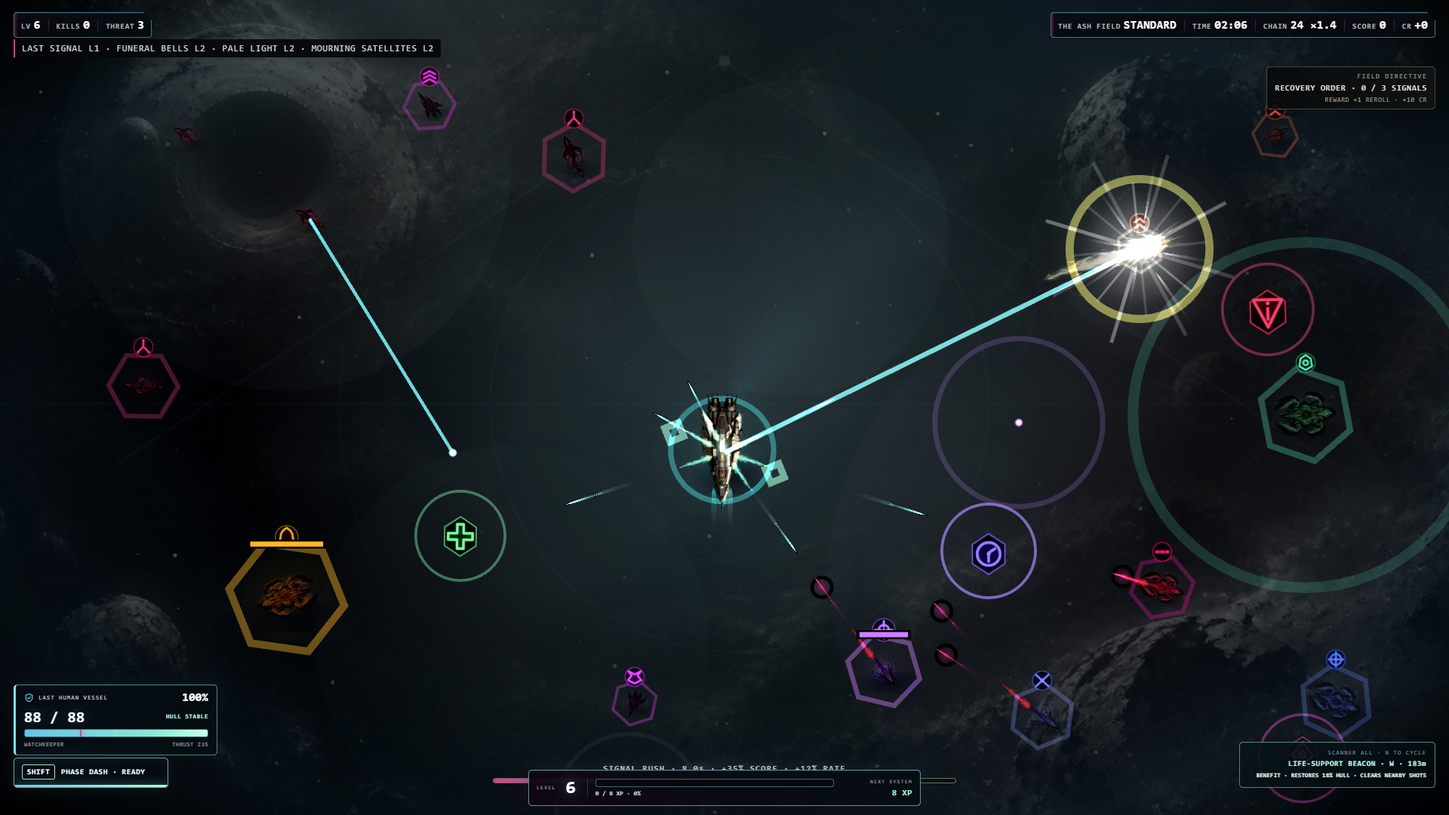
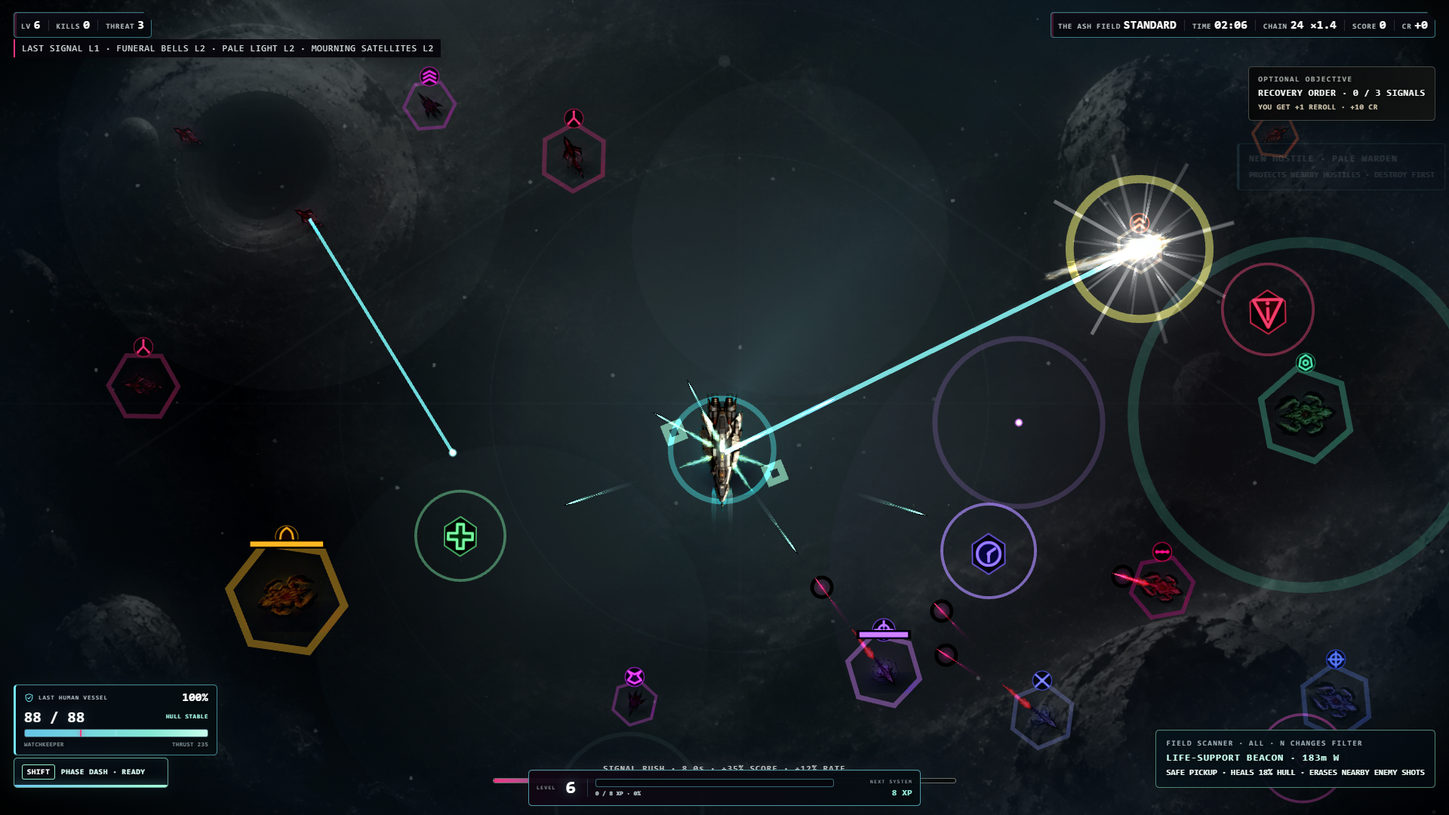
feat: teach hostile counterplay on first contact

Changed region(s): [[0.7188, 0.1833, 0.8438, 0.4278], [0.8125, 0.8861, 1.0, 0.9778], [0.8438, 0.0611, 1.0, 0.1528]]

diff --git a/game.js b/game.js
@@ -94,7 +94,7 @@ function show(id){$(id).classList.add('show')}
 function hide(id){$(id).classList.remove('show')}
 function hideAll(except=''){for(const id of screens)if(id!==except)hide(id)}
 function message(text,ms=900){centerMessage.textContent=text;clearTimeout(message.t);message.t=setTimeout(()=>centerMessage.textContent='',ms)}
-function toast(title,text=''){const d=document.createElement('div'),heading=document.createElement('b');d.className='toast';heading.textContent=title;d.appendChild(heading);if(text){const detail=document.createElement('span');detail.textContent=text;d.appendChild(detail)}d.setAttribute('aria-label',[title,text].filter(Boolean).join('. '));toastStack.appendChild(d);setTimeout(()=>d.remove(),3900)}
+function toast(title,text='',tone=''){const d=document.createElement('div'),heading=document.createElement('b');d.className=`toast${tone?` ${tone}`:''}`;heading.textContent=title;d.appendChild(heading);if(text){const detail=document.createElement('span');detail.textContent=text;d.appendChild(detail)}d.setAttribute('aria-label',[title,text].filter(Boolean).join('. '));toastStack.appendChild(d);const excess=toastStack.children.length-3;for(let i=0;i<excess;i++)toastStack.children[0]?.remove();setTimeout(()=>d.remove(),3900);return d}
 function rewardCue(title,detail='',tier=1,ms=1450){rewardRibbonTitle.textContent=title;rewardRibbonDetail.textContent=detail;rewardRibbon.dataset.tier=String(tier);rewardRibbon.classList.remove('show');void rewardRibbon.offsetWidth;rewardRibbon.classList.add('show');clearTimeout(rewardCue.t);rewardCue.t=setTimeout(()=>rewardRibbon.classList.remove('show'),ms)}
 function weighted(items,count){const pool=[...items],out=[];while(pool.length&&out.length<count){const total=pool.reduce((a,x)=>a+x.weight,0);let r=Math.random()*total,i=0;for(;i<pool.length;i++){r-=pool[i].weight;if(r<=0)break}out.push(pool.splice(Math.min(i,pool.length-1),1)[0])}return out}
 function edgePos(m=34){const e=(Math.random()*4)|0,p=Math.random();return e===0?{x:-m,y:p*H}:e===1?{x:W+m,y:p*H}:e===2?{x:p*W,y:-m}:{x:p*W,y:H+m}}
@@ -105,8 +105,8 @@ const SAVE_BACKUP_KEY='orbit04-save-v2-backup';
 const OLD_SAVE_KEY='orbit04-save-v1';
 const DEFAULT_SETTINGS={playerHp:'BOTH',enemyHp:'ELITES',xpReadout:'BOTH',damageNumbers:'CRITS',telegraphs:'ON',hints:'ON',mouse:'HOLD',targetPriority:'NEAREST',autoPause:'ON',shake:'ON',flash:'ON',motion:'FULL',uiScale:'XL',particles:'HIGH',graphics:'HIGH',effectClarity:'HIGH',glow:'ON',background:'FULL',contrast:'HIGH',audio:'ON',audioMix:'CINEMA',sfxVolume:'100%',musicVolume:'70%'};
 const DEFAULT_STATS={totalDamage:0,damageTaken:0,bosses:0,highestLevel:1,bestChain:0,bestGrazeChain:0,totalGrazes:0,signalRushes:0,clears:0,hardlineClears:0,blackoutClears:0,playTime:0,caches:0,reliquaries:0,conversions:0,flawlessBosses:0,secretEvents:0,nemeses:0,doctrinesChosen:0,operationsClaimed:0,ascensions:0,endlessTime:0,overcharges:0,fieldSignals:0,timeFractures:0,archiveFragments:0,hazardsTriggered:0,distanceTraveled:0,directivesCompleted:0};
-const DEFAULT_SAVE={credits:0,bestScore:0,bestTime:0,bestAscension:0,totalKills:0,runs:0,briefingSeen:false,unlocked:['striker'],selected:'striker',difficulty:'STANDARD',contract:'NONE',sector:'AURORA',achievements:[],claimedOperations:[],research:{},shipMastery:{},sectorClears:{},discoveredWeapons:['pulse'],discoveredEnemies:['scout'],discoveredEvolutions:[],discoveredSynergies:[],discoveredArtifacts:[],discoveredArchives:[],stats:{...DEFAULT_STATS},settings:{...DEFAULT_SETTINGS}};
-function deepProfile(raw={}){return {...DEFAULT_SAVE,...raw,unlocked:Array.isArray(raw.unlocked)?raw.unlocked:['striker'],achievements:Array.isArray(raw.achievements)?raw.achievements:[],claimedOperations:Array.isArray(raw.claimedOperations)?raw.claimedOperations:[],research:{...(raw.research||{})},shipMastery:{...(raw.shipMastery||{})},sectorClears:{...(raw.sectorClears||{})},discoveredWeapons:Array.isArray(raw.discoveredWeapons)?raw.discoveredWeapons:['pulse'],discoveredEnemies:Array.isArray(raw.discoveredEnemies)?raw.discoveredEnemies:['scout'],discoveredEvolutions:Array.isArray(raw.discoveredEvolutions)?raw.discoveredEvolutions:[],discoveredSynergies:Array.isArray(raw.discoveredSynergies)?raw.discoveredSynergies:[],discoveredArtifacts:Array.isArray(raw.discoveredArtifacts)?raw.discoveredArtifacts:[],discoveredArchives:Array.isArray(raw.discoveredArchives)?normalizeArchiveIds(raw.discoveredArchives):[],stats:{...DEFAULT_STATS,...(raw.stats||{})},settings:{...DEFAULT_SETTINGS,...(raw.settings||{})}}}
+const DEFAULT_SAVE={credits:0,bestScore:0,bestTime:0,bestAscension:0,totalKills:0,runs:0,briefingSeen:false,unlocked:['striker'],selected:'striker',difficulty:'STANDARD',contract:'NONE',sector:'AURORA',achievements:[],claimedOperations:[],research:{},shipMastery:{},sectorClears:{},discoveredWeapons:['pulse'],discoveredEnemies:['scout'],briefedEnemies:[],discoveredEvolutions:[],discoveredSynergies:[],discoveredArtifacts:[],discoveredArchives:[],stats:{...DEFAULT_STATS},settings:{...DEFAULT_SETTINGS}};
+function deepProfile(raw={}){return {...DEFAULT_SAVE,...raw,unlocked:Array.isArray(raw.unlocked)?raw.unlocked:['striker'],achievements:Array.isArray(raw.achievements)?raw.achievements:[],claimedOperations:Array.isArray(raw.claimedOperations)?raw.claimedOperations:[],research:{...(raw.research||{})},shipMastery:{...(raw.shipMastery||{})},sectorClears:{...(raw.sectorClears||{})},discoveredWeapons:Array.isArray(raw.discoveredWeapons)?raw.discoveredWeapons:['pulse'],discoveredEnemies:Array.isArray(raw.discoveredEnemies)?raw.discoveredEnemies:['scout'],briefedEnemies:Array.isArray(raw.briefedEnemies)?raw.briefedEnemies:[],discoveredEvolutions:Array.isArray(raw.discoveredEvolutions)?raw.discoveredEvolutions:[],discoveredSynergies:Array.isArray(raw.discoveredSynergies)?raw.discoveredSynergies:[],discoveredArtifacts:Array.isArray(raw.discoveredArtifacts)?raw.discoveredArtifacts:[],discoveredArchives:Array.isArray(raw.discoveredArchives)?normalizeArchiveIds(raw.discoveredArchives):[],stats:{...DEFAULT_STATS,...(raw.stats||{})},settings:{...DEFAULT_SETTINGS,...(raw.settings||{})}}}
 function decodeProfile(serialized){const raw=JSON.parse(serialized);if(!raw||typeof raw!=='object'||Array.isArray(raw))throw new Error('Invalid save profile');return deepProfile(raw)}
 let saveRecoverySource='',saveWriteWarning=false;
 function loadSave(){
@@ -242,7 +242,20 @@ const WEAPON_QUICK_DESC={
   pulse:'Automatic forward fire.',missile:'Homing splash damage.',drone:'Autonomous orbital escort.',arc:'Chains through nearby hostiles.',rail:'Piercing long-range shot.',nova:'Periodic area pulse.',mine:'Timed pursuit traps.',beam:'Continuous piercing line.',flak:'Close-range fragment burst.',blade:'Permanent orbital damage.',rift:'Pulls and damages a wide area.'
 };
 const ENEMY_META={
-  scout:{name:'VOID LARVA',desc:'A small pursuit organism born between dead worlds.'},charger:{name:'HUNGER HOUND',desc:'A membrane predator that folds itself into a high-speed strike.'},tank:{name:'OSSUARY',desc:'A slow body armored in the remains of earlier species.'},gunner:{name:'CHOIR NODE',desc:'A ranged organ that coordinates pressure through shared nerve signals.'},splitter:{name:'GRIEF BLOOM',desc:'A colonial body that divides when destroyed.'},sniper:{name:'WITNESS',desc:'A patient seer-organism firing hardened needles across the dark.'},stalker:{name:'VEIL STALKER',desc:'A flanking predator that changes its approach before a sudden surge.'},weaver:{name:'NEEDLE WEAVER',desc:'A lateral hunter that maintains range and fires paired needles.'},warden:{name:'PALE WARDEN',desc:'A support organism that hardens nearby alien tissue.'},reaper:{name:'SABLE REAPER',desc:'A crescent predator that signals before crossing the arena at lethal speed.'},harrower:{name:'BONE HARRIER',desc:'A long-range organism that strafes the Ark and fires a readable three-needle fan.'},moth:{name:'GRAVE MOTH',desc:'A light predator that weaves across the pursuit line in rapid alternating cuts.'},anchor:{name:'NULL ANCHOR',desc:'A range-control organism that holds position and emits a slow radial needle lattice.'},boss:{name:'CONQUEROR',desc:'A sovereign alien form built from consumed civilizations.'}
+  scout:{name:'VOID LARVA',quick:'CHASER · LOW HULL',desc:'A small pursuit organism born between dead worlds.'},
+  charger:{name:'HUNGER HOUND',quick:'BURST CHARGE · DODGE SIDEWAYS',desc:'A membrane predator that folds itself into a high-speed strike.'},
+  tank:{name:'OSSUARY',quick:'ARMORED · SLOW · HIGH CONTACT DAMAGE',desc:'A slow body armored in the remains of earlier species.'},
+  gunner:{name:'CHOIR NODE',quick:'RANGED FIRE · CHANGE DIRECTION',desc:'A ranged organ that coordinates pressure through shared nerve signals.'},
+  splitter:{name:'GRIEF BLOOM',quick:'SPLITS ON DEATH · KEEP SPACE CLEAR',desc:'A colonial body that divides when destroyed.'},
+  sniper:{name:'WITNESS',quick:'LONG-RANGE SHOT · KEEP MOVING',desc:'A patient seer-organism firing hardened needles across the dark.'},
+  stalker:{name:'VEIL STALKER',quick:'FLANKS · SUDDEN BURST',desc:'A flanking predator that changes its approach before a sudden surge.'},
+  weaver:{name:'NEEDLE WEAVER',quick:'STRAFES AT RANGE · PAIRED SHOTS',desc:'A lateral hunter that maintains range and fires paired needles.'},
+  warden:{name:'PALE WARDEN',quick:'PROTECTS NEARBY HOSTILES · DESTROY FIRST',desc:'A support organism that hardens nearby alien tissue.'},
+  reaper:{name:'SABLE REAPER',quick:'TELEGRAPHED DASH · MOVE OFF ITS LINE',desc:'A crescent predator that signals before crossing the arena at lethal speed.'},
+  harrower:{name:'BONE HARRIER',quick:'STRAFES · FIRES A THREE-SHOT FAN',desc:'A long-range organism that strafes the Ark and fires a readable three-needle fan.'},
+  moth:{name:'GRAVE MOTH',quick:'FAST WEAVING ATTACKS · TRACK ITS CUT',desc:'A light predator that weaves across the pursuit line in rapid alternating cuts.'},
+  anchor:{name:'NULL ANCHOR',quick:'HOLDS RANGE · RADIAL PROJECTILES',desc:'A range-control organism that holds position and emits a slow radial needle lattice.'},
+  boss:{name:'CONQUEROR',quick:'MULTI-PHASE SOVEREIGN · READ THE TELEGRAPH',desc:'A sovereign alien form built from consumed civilizations.'}
 };
 const RESEARCH={
   hull:{name:'HULL MEMORY',max:5,base:70,desc:l=>`+${l*2}% maximum hull`,apply:(p,l)=>{p.baseHp*=1+l*.02}},
@@ -392,7 +405,9 @@ function difficultyUnlocked(id){return id!=='BLACKOUT'||save.stats.hardlineClear
 function nextDifficulty(direction=1){save.difficulty=cycleUnlockedOption(save.difficulty,Object.keys(DIFFICULTIES),direction,difficultyUnlocked);persist()}
 function nextContract(direction=1){save.contract=cycleUnlockedOption(save.contract,Object.keys(CONTRACTS),direction);persist()}
 function discoverWeapon(id){if(!save.discoveredWeapons.includes(id)){save.discoveredWeapons.push(id);persist(false)}}
-function discoverEnemy(id){if(!save.discoveredEnemies.includes(id)){save.discoveredEnemies.push(id);persist(false)}}
+function discoverEnemy(id){if(save.discoveredEnemies.includes(id))return false;save.discoveredEnemies.push(id);persist(false);return true}
+function queueEnemyIntel(id){if(!state||id==='boss'||save.settings.hints!=='ON'||save.briefedEnemies.includes(id)||state.enemyIntelQueue.includes(id))return false;state.enemyIntelQueue.push(id);return true}
+function updateEnemyIntel(){if(!state||state.mode!=='run'||state.paused||state.choosing||state.ceremony||state.enemyIntelShown>=3||state.time<state.nextEnemyIntel||!state.enemyIntelQueue.length)return false;const id=state.enemyIntelQueue.shift(),meta=ENEMY_META[id];if(!meta)return false;if(!save.briefedEnemies.includes(id))save.briefedEnemies.push(id);state.enemyIntelShown++;state.nextEnemyIntel=state.time+12;persist(false);toast(`NEW HOSTILE · ${meta.name}`,meta.quick,'intel');return true}
 function unlockAchievement(id){
   if(!ACHIEVEMENTS[id]||save.achievements.includes(id))return false;
   const a=ACHIEVEMENTS[id];save.achievements.push(id);save.credits+=a.credits||0;PLATFORM.unlockAchievement(id);persist(false);AUDIO.sfx('achievement');toast(`ACHIEVEMENT — ${a.name}`,`${a.reward}`);if(state?.mode==='run')state.newUnlocks.push(`${a.name} — ${a.reward}`);return true;
@@ -483,7 +498,7 @@ function renderCodex(){
   }else if(codexTab==='weapons'){
     for(const [id,w] of Object.entries(WEAPON_META)){const known=save.discoveredWeapons.includes(id),evoKnown=save.discoveredEvolutions.includes(id),d=document.createElement('div');d.className='codexCard';d.innerHTML=`<b>${known?w.name:'UNKNOWN SYSTEM'}</b><span>${known?`${w.desc}<br>EVOLUTION: ${evoKnown?w.evo:'???'}`:'Acquire this weapon during a run.'}</span>`;c.appendChild(d)}
   }else if(codexTab==='enemies'){
-    for(const [id,e] of Object.entries(ENEMY_META)){const known=save.discoveredEnemies.includes(id)||id==='boss'&&save.stats.bosses>0,d=document.createElement('div');d.className='codexCard';d.innerHTML=`<b>${known?e.name:'UNKNOWN HOSTILE'}</b><span>${known?e.desc:'No telemetry available.'}</span>`;c.appendChild(d)}
+    for(const [id,e] of Object.entries(ENEMY_META)){const known=save.discoveredEnemies.includes(id)||id==='boss'&&save.stats.bosses>0,d=document.createElement('div');d.className='codexCard';d.innerHTML=`<b>${known?e.name:'UNKNOWN HOSTILE'}</b>${known?`<small class="codexQuick">${e.quick}</small>`:''}<span>${known?e.desc:'No telemetry available.'}</span>`;c.appendChild(d)}
   }else{
     for(const [id,x] of Object.entries(SYNERGIES)){const known=save.discoveredSynergies.includes(id),d=document.createElement('div');d.className='codexCard';d.innerHTML=`<b>${known?x.name:'UNKNOWN LINK'}</b><span>${known?x.desc:'Combine compatible systems to reveal this link.'}</span>`;c.appendChild(d)}
     for(const [id,x] of Object.entries(ARTIFACTS)){const known=save.discoveredArtifacts.includes(id),d=document.createElement('div');d.className='codexCard';d.innerHTML=`<b>${known?x.name:'UNKNOWN ARTIFACT'}</b><span>${known?x.desc:'Rare telemetry not yet recovered.'}</span>`;c.appendChild(d)}
@@ -796,7 +811,7 @@ function startRun(){
   const frame=SHIPS[save.selected],diff=DIFFICULTIES[save.difficulty]||DIFFICULTIES.STANDARD,contract=CONTRACTS[save.contract]||CONTRACTS.NONE,sector=SECTORS[save.sector]||SECTORS.AURORA,now=performance.now(),mastery=masteryLevel(save.selected),directiveId=selectFieldDirective();
   const p={x:W/2,y:H/2,r:10,baseSpeed:frame.speed,speed:frame.speed,baseHp:frame.hp,maxHp:frame.hp,hp:frame.hp,frame:save.selected,baseArmor:frame.armor,moduleArmor:0,baseDamageMul:frame.damage,damageMul:frame.damage,baseCooldownMul:1/frame.fire,cooldownMul:1/frame.fire,projectileMul:1,baseCrit:frame.crit,crit:frame.crit,critDamageBonus:0,magnet:78,baseMagnet:78,convertChance:0,allyCap:0,allyLifeMul:1,allyDamageMul:1,allyFireMul:1,allyExplosion:0,areaMul:1,specialMul:1,extraProjectiles:0,hitFlash:0,iFrames:0,incomingMul:1,scoreMul:1,creditMul:1,cacheLuck:0,grazeRadius:13,blackBox:false,grazeOverclock:false,deadReckoning:false,weaponMul:{},iffDoctrine:1,overdriveDurationMul:1,brink:false,trait:frame.trait,reactiveCooldown:0,droneBonus:0,moving:false,dashCooldown:0,dashFx:0,dashFromX:W/2,dashFromY:H/2,dashToX:W/2,dashToY:H/2,weaponKick:0,weaponAngle:-Math.PI/2,_lastMoveX:0,_lastMoveY:-1};
   applyResearchToPlayer(p);p.baseSpeed*=1.06*(contract.playerSpeed||1);p.speed=p.baseSpeed;p.baseHp*=contract.hull||1;p.baseHp*=sector.hull||1;p.maxHp=p.baseHp;p.hp=p.maxHp;p.baseCrit+=contract.crit||0;p.crit=p.baseCrit;p.cacheLuck+=(contract.cacheLuck||0)+(sector.cacheLuck||0);p.grazeRadius+=sector.graze||0;p.scoreMul*=sector.score||1;if(save.selected==='bulwark'){p.droneBonus=1;p.allyCap+=1}if(save.selected==='oracle')p.iffDoctrine*=1.25;
-  state={mode:'run',diff,contract,sector,sectorId:save.sector,contractId:save.contract,difficulty:save.difficulty,time:0,last:now,paused:false,choosing:false,choiceMode:'',ceremony:false,ceremonyQueue:[],gameOver:false,victory:false,clearedBase:false,endless:false,ascension:0,nextEndlessBoss:0,revived:false,finalizing:false,worldX:0,worldY:0,distanceTraveled:0,generatedCells:new Set(),worldSites:[],worldNodes:[],signalFilter:'ALL',directiveId,directiveComplete:false,explorationFinds:0,archiveFragments:0,archiveOpen:false,archiveXpPending:0,hazardFinds:0,fieldBoostUntil:0,interferenceUntil:0,runCredits:0,kills:0,score:0,spawnT:0,eliteT:36,bossStage:0,level:1,xp:0,xpNeed:8,rerolls:1+(save.research.reroll||0)+(mastery>=4?1:0),skips:1+(mastery>=2?1:0),currentOffers:[],pinnedOfferKey:'',upgradeHistory:[],runCounted:false,accountedKills:0,accountedCredits:0,accountedMastery:0,accountedEndlessTime:0,accountedStats:{damageDealt:0,damageTaken:0,bossesKilled:0,grazes:0,time:0,cachesOpened:0,reliquariesOpened:0,distanceTraveled:0},masteryStartLevel:mastery,clearCounted:false,threat:1,chain:0,chainBest:0,chainTimer:0,rush:0,rushActivations:0,rushKills:0,rushBest:0,salvageSweep:0,nextBounty:65,bounty:null,nextAnomaly:115,nextSecret:(145+Math.random()*45)/(sector.secret||1),nextNemesis:350,nemesisKilled:0,redline:false,overdrive:0,driveTier:0,grazeChain:0,grazeBest:0,grazeTimer:0,grazes:0,cachesOpened:0,conversions:0,evolutions:0,doctrines:{},doctrinePicks:0,pendingLevelAfterDoctrine:false,damageDealt:0,damageTaken:0,bossesKilled:0,flawlessBosses:0,secretEvents:0,weaponDamage:{},noHit:true,newUnlocks:[],protocols:{},artifacts:{},synergies:{},hitStop:0,critFxCooldown:0,surgeUntil:0,p,passives:{},weapons:{},enemies:[],bullets:[],enemyBullets:[],orbs:[],caches:[],mines:[],rifts:[],allies:[],particles:[],floaters:[],deathFx:[],impactFx:[],weaponFx:[],arcs:[],beams:[],shake:0,stars:Array.from({length:110},()=>({x:Math.random()*W,y:Math.random()*H,z:1+Math.random()*2,phase:Math.random()*Math.PI*2}))};
+  state={mode:'run',diff,contract,sector,sectorId:save.sector,contractId:save.contract,difficulty:save.difficulty,time:0,last:now,paused:false,choosing:false,choiceMode:'',ceremony:false,ceremonyQueue:[],enemyIntelQueue:[],enemyIntelShown:0,nextEnemyIntel:18,gameOver:false,victory:false,clearedBase:false,endless:false,ascension:0,nextEndlessBoss:0,revived:false,finalizing:false,worldX:0,worldY:0,distanceTraveled:0,generatedCells:new Set(),worldSites:[],worldNodes:[],signalFilter:'ALL',directiveId,directiveComplete:false,explorationFinds:0,archiveFragments:0,archiveOpen:false,archiveXpPending:0,hazardFinds:0,fieldBoostUntil:0,interferenceUntil:0,runCredits:0,kills:0,score:0,spawnT:0,eliteT:36,bossStage:0,level:1,xp:0,xpNeed:8,rerolls:1+(save.research.reroll||0)+(mastery>=4?1:0),skips:1+(mastery>=2?1:0),currentOffers:[],pinnedOfferKey:'',upgradeHistory:[],runCounted:false,accountedKills:0,accountedCredits:0,accountedMastery:0,accountedEndlessTime:0,accountedStats:{damageDealt:0,damageTaken:0,bossesKilled:0,grazes:0,time:0,cachesOpened:0,reliquariesOpened:0,distanceTraveled:0},masteryStartLevel:mastery,clearCounted:false,threat:1,chain:0,chainBest:0,chainTimer:0,rush:0,rushActivations:0,rushKills:0,rushBest:0,salvageSweep:0,nextBounty:65,bounty:null,nextAnomaly:115,nextSecret:(145+Math.random()*45)/(sector.secret||1),nextNemesis:350,nemesisKilled:0,redline:false,overdrive:0,driveTier:0,grazeChain:0,grazeBest:0,grazeTimer:0,grazes:0,cachesOpened:0,conversions:0,evolutions:0,doctrines:{},doctrinePicks:0,pendingLevelAfterDoctrine:false,damageDealt:0,damageTaken:0,bossesKilled:0,flawlessBosses:0,secretEvents:0,weaponDamage:{},noHit:true,newUnlocks:[],protocols:{},artifacts:{},synergies:{},hitStop:0,critFxCooldown:0,surgeUntil:0,p,passives:{},weapons:{},enemies:[],bullets:[],enemyBullets:[],orbs:[],caches:[],mines:[],rifts:[],allies:[],particles:[],floaters:[],deathFx:[],impactFx:[],weaponFx:[],arcs:[],beams:[],shake:0,stars:Array.from({length:110},()=>({x:Math.random()*W,y:Math.random()*H,z:1+Math.random()*2,phase:Math.random()*Math.PI*2}))};
   state.reliquaryOpen=false;state.reliquariesOpened=0;state.timeFractureRemaining=0;state.timeFractures=0;state.fractureKills=0;state.fractureWasActive=false;state.preBossWarningStage=-1;
   if(frame.startPassive){state.passives[frame.startPassive]=1;PASSIVES[frame.startPassive].apply(1)}
   addWeapon(frame.weapon);checkSynergies();updateWorldGeneration();AUDIO.ensure();AUDIO.resetMusic();AUDIO.sfx('start');hideAll();wrap.classList.remove('danger');hud.classList.remove('hidden');message(`ORBIT//04 · LAST HUMAN VESSEL\n${frame.name} · ${sector.name} · ${diff.name}${save.contract!=='NONE'?` · ${contract.name}`:''}`,1250);if(save.settings.audio!=='ON')toast('AUDIO MUTED','Press M or enable AUDIO in Settings.');if(!save.briefingSeen&&!TEST_MODE)openPilotBriefing();else if(save.settings.hints==='ON'&&!TEST_MODE){const run=state;setTimeout(()=>{if(state===run&&!run.gameOver)toast('PILOT ASSIST','WASD / MOUSE — move · SHIFT — Phase Dash · N — signal filter')},1450)}checkMetaAchievements();
@@ -808,7 +823,7 @@ function enemyBase(type){return {scout:{hp:24,speed:52,r:9,damage:13,xp:1,color:
 function selectEnemyType(time,roll){if(time>330&&roll<.035)return'harrower';if(time>235&&roll<.075)return'anchor';if(time>270&&roll<.12)return'reaper';if(time>260&&roll<.16)return'warden';if(time>210&&roll<.215)return'sniper';if(time>165&&roll<.30)return'weaver';if(time>150&&roll<.39)return'splitter';if(time>100&&roll<.48)return'gunner';if(time>95&&roll<.56)return'moth';if(time>80&&roll<.61)return'stalker';if(time>55&&roll<.69)return'charger';const tankCeiling=time>55?.84:.14;if(time>25&&roll<tankCeiling)return'tank';return'scout'}
 function spawnEnemy(forceType=null,elite=false,at=null){
   const pos=at||edgePos(),t=state.time,type=forceType||selectEnemyType(t,Math.random());
-  discoverEnemy(type);const b=enemyBase(type),asc=1+(state.ascension||0)*.24,hpScale=(1+t/300+Math.pow(t/720,2)*.62)*state.diff.hp*(state.contract?.hp||1)*(state.sector?.hp||1)*asc,damageScale=(1+Math.min(.80,t/820))*state.diff.damage*(state.contract?.damage||1)*(state.sector?.damage||1)*(1+(state.ascension||0)*.12),speedScale=(1+Math.min(.50,t/720))*state.diff.speed*(state.contract?.speed||1)*(state.sector?.speed||1)*(1+(state.ascension||0)*.035);
+  discoverEnemy(type);queueEnemyIntel(type);const b=enemyBase(type),asc=1+(state.ascension||0)*.24,hpScale=(1+t/300+Math.pow(t/720,2)*.62)*state.diff.hp*(state.contract?.hp||1)*(state.sector?.hp||1)*asc,damageScale=(1+Math.min(.80,t/820))*state.diff.damage*(state.contract?.damage||1)*(state.sector?.damage||1)*(1+(state.ascension||0)*.12),speedScale=(1+Math.min(.50,t/720))*state.diff.speed*(state.contract?.speed||1)*(state.sector?.speed||1)*(1+(state.ascension||0)*.035);
   const e={...pos,type,hp:b.hp*hpScale*(elite?3.45:1),maxHp:b.hp*hpScale*(elite?3.45:1),speed:b.speed*speedScale,r:b.r*(elite?1.24:1),damage:b.damage*damageScale*(elite?1.28:1),xp:b.xp*(elite?5:1),color:b.color,elite,boss:false,bounty:false,dead:false,hit:0,shootT:.8+Math.random()*1.2,chargeT:.8+Math.random()*1.8,abilityT:.7+Math.random()*1.6,orbitDir:Math.random()<.5?-1:1,burst:0};state.enemies.push(e);return e
 }
 const BOSSES={1:{name:'THE CHOIR',hp:2250,speed:30,damage:34,color:'#a9686c'},2:{name:'THE OSSUARY',hp:4550,speed:32,damage:39,color:'#9f8173'},3:{name:'THE CONQUEROR',hp:7700,speed:35,damage:44,color:'#9b8793'}};
@@ -931,7 +946,7 @@ function update(dt){
   const realDt=dt,fractureWas=state.timeFractureRemaining>0;state.timeFractureRemaining=Math.max(0,(state.timeFractureRemaining||0)-realDt);const fractureActive=state.timeFractureRemaining>0;dt=realDt*(fractureActive?.28:1);wrap.classList.toggle('timeFracture',fractureActive);if(fractureWas&&!fractureActive){AUDIO.sfx('phase');rewardCue('TIME RESTORED',`${state.fractureKills} HOSTILES CAUGHT IN THE FRACTURE`,1,1200)}state.fractureWasActive=fractureActive;
   state.time+=dt;state.shake=Math.max(0,state.shake-dt*18);state.critFxCooldown=Math.max(0,state.critFxCooldown-dt);state.upgradePulse=Math.max(0,(state.upgradePulse||0)-dt);state.salvageSweep=Math.max(0,(state.salvageSweep||0)-dt);const p=state.p;state.overdrive=Math.max(0,state.overdrive-dt);const rushWas=state.rush>0;state.rush=Math.max(0,state.rush-dt);if(rushWas&&state.rush<=0){state.rushBest=Math.max(state.rushBest,state.rushKills);AUDIO.sfx('rushEnd');toast('SIGNAL RUSH ENDED',`${state.rushKills} kills sustained`);state.rushKills=0}p.reactiveCooldown=Math.max(0,(p.reactiveCooldown||0)-dt);p.dashCooldown=Math.max(0,(p.dashCooldown||0)-dt);p.dashFx=Math.max(0,(p.dashFx||0)-dt);p.weaponKick=Math.max(0,(p.weaponKick||0)-dt);if(state.overdrive<=0)state.driveTier=0;p.hitFlash=Math.max(0,p.hitFlash-dt);p.iFrames=Math.max(0,p.iFrames-dt);state.chainTimer=Math.max(0,state.chainTimer-dt);if(state.chainTimer<=0)state.chain=0;state.grazeTimer=Math.max(0,state.grazeTimer-dt);if(state.grazeTimer<=0)state.grazeChain=0;
   const redline=p.hp/p.maxHp<=.30;if(redline&&!state.redline){state.redline=true;AUDIO.sfx('danger');message('REDLINE\nCRIT +8% · SCORE +25%',700)}else if(!redline)state.redline=false;const activeBoss=state.enemies.find(e=>e.boss&&!e.dead);AUDIO.music(state.time,{boss:!!activeBoss,bossStage:state.bossStage,bossPhase:activeBoss?.phase||0,drive:state.driveTier,threat:state.threat,chain:state.chain,redline,rush:state.rush>0,moving:p.moving,fracture:fractureActive,time:state.time});
-  const chainMul=1+Math.min(1.6,Math.floor(state.chain/5)*.10),brinkMul=state.p.brink&&p.hp/p.maxHp<=.50?1.35:1,rushMul=state.rush>0?1.25:1;state.score+=dt*(1+state.level*.10)*chainMul*(redline?1.25:1)*brinkMul*rushMul*state.p.scoreMul*state.diff.score*(state.contract?.score||1);updatePressure();
+  const chainMul=1+Math.min(1.6,Math.floor(state.chain/5)*.10),brinkMul=state.p.brink&&p.hp/p.maxHp<=.50?1.35:1,rushMul=state.rush>0?1.25:1;state.score+=dt*(1+state.level*.10)*chainMul*(redline?1.25:1)*brinkMul*rushMul*state.p.scoreMul*state.diff.score*(state.contract?.score||1);updatePressure();updateEnemyIntel();
   const input=moveInput();let dx=input.dx,dy=input.dy;p.moving=!!(dx||dy);if(dx||dy){const l=Math.hypot(dx,dy),nx=dx/l,ny=dy/l,driveSpeed=[1,1.08,1.12,1.16,1.20][state.driveTier]||1,interference=state.interferenceUntil>state.time?.72:1,step=p.speed*driveSpeed*interference*realDt;p._lastMoveX=nx;p._lastMoveY=ny;p.x+=nx*step;p.y+=ny*step;state.distanceTraveled+=step}followWorldCamera();updateWorldGeneration();checkFieldDirective();
   spawnWave(dt);updateWeapons(dt);
   for(const s of state.stars){const starDrive=p.moving?23:0;s.x-=(p._lastMoveX||0)*starDrive*s.z*realDt;s.y-=(p._lastMoveY||0)*starDrive*s.z*realDt;s.y+=5*s.z*dt;if(s.x>W)s.x=0;else if(s.x<0)s.x=W;if(s.y>H)s.y=0;else if(s.y<0)s.y=H}

diff --git a/styles.css b/styles.css
@@ -27,7 +27,7 @@ h1,h2,p{margin-top:0}h1{font:600 28px/1 var(--sans);letter-spacing:.14em;margin-
 .audioCheckRow{margin-top:8px;padding:12px;border:1px solid rgba(98,230,255,.32);border-radius:6px;background:rgba(8,29,41,.62)}.audioCheckRow .tiny{max-width:430px;margin-top:5px}.audioCheckRow button{border-color:rgba(98,230,255,.62);color:#d9fbff}
 .pauseSnapshot{display:grid;grid-template-columns:repeat(2,minmax(0,1fr));gap:7px;margin:16px 0 6px;text-align:left}.pauseSnapshot>div{padding:10px;border:1px solid rgba(70,112,132,.36);border-radius:5px;background:rgba(3,12,19,.54)}.pauseSnapshot span{display:block;margin-bottom:4px;font:8px var(--mono);letter-spacing:.11em;color:var(--muted)}.pauseSnapshot b{display:block;font:600 11px/1.35 var(--mono);color:#f1fbff}.pauseSnapshot .pauseObjective{grid-column:1/-1;border-left:2px solid var(--cyan)}.pauseSnapshot .pauseObjective b{color:var(--cyan)}
 .intelPanel{max-height:94%}.intelMetrics{display:grid;grid-template-columns:repeat(6,1fr);gap:7px;margin-bottom:12px}.intelMetric{padding:10px 11px;border:1px solid rgba(66,107,128,.40);border-radius:5px;background:linear-gradient(145deg,rgba(9,27,39,.78),rgba(3,12,19,.74))}.intelMetric span{display:block;font:8px var(--mono);letter-spacing:.12em;color:var(--muted)}.intelMetric b{display:block;margin-top:5px;font:600 15px var(--mono);color:#fff}.intelLayout{display:grid;grid-template-columns:repeat(2,minmax(0,1fr));gap:10px}.intelSection{border:1px solid rgba(58,94,113,.38);border-radius:6px;background:rgba(3,11,18,.48);padding:11px}.intelSection h3{display:flex;justify-content:space-between;margin:0 0 8px;padding-bottom:8px;border-bottom:1px solid rgba(67,105,125,.25);font:600 10px var(--mono);letter-spacing:.12em;color:var(--cyan)}.intelSection h3 span{color:var(--muted)}.intelWeapons{grid-row:span 2}.intelMission{grid-column:1/-1;display:grid;grid-template-columns:repeat(2,minmax(0,1fr));gap:7px}.intelMission h3{grid-column:1/-1}.intelItem{position:relative;padding:8px 1px;border-bottom:1px solid rgba(47,76,92,.20)}.intelItem:last-child{border-bottom:0}.intelItem>div{display:flex;align-items:center;justify-content:space-between;gap:8px}.intelItem b{font-size:11px;letter-spacing:.045em;color:#f5fbff}.intelItem p{margin:4px 0 0;font:10px/1.4 var(--mono);color:#91aab7}.intelItem small{display:block;margin-top:5px;font:8px var(--mono);letter-spacing:.055em;color:var(--mint)}.intelBadge{flex:0 0 auto;padding:3px 5px;border:1px solid rgba(121,240,202,.34);border-radius:3px;background:rgba(51,127,108,.08);font:8px var(--mono);letter-spacing:.08em;color:var(--mint)}.intelEmpty{padding:18px 4px;text-align:center;font:9px var(--mono);letter-spacing:.08em;color:#567181}.intelHelp{margin-top:10px;text-align:right;font:8px var(--mono);letter-spacing:.06em;color:#5f7a89}
-.researchGrid{display:grid;grid-template-columns:repeat(2,1fr);gap:8px}.researchCard{min-height:108px;display:grid;grid-template-columns:1fr auto;gap:10px;align-items:start}.researchCard .name{color:#fff;font-size:11px;letter-spacing:.06em}.researchCard .lvl{color:var(--mint);font:9px var(--mono)}.researchCard .cost{color:var(--amber);font:9px var(--mono);margin-top:5px}.researchCard button{align-self:center;text-align:center}.achievementGrid{display:grid;grid-template-columns:repeat(2,1fr);gap:7px}.achievement{border:1px solid rgba(48,76,91,.45);border-radius:4px;padding:10px;min-height:76px}.achievement.done{border-color:#365f58;background:rgba(30,73,62,.08)}.achievement .name{font-size:10px;color:#fff;letter-spacing:.05em}.achievement .reward{font:9px var(--mono);color:var(--amber);margin-top:6px}.achievement.locked{opacity:.56}.tabRow{display:flex;gap:6px;margin-bottom:11px}.codexContent{display:grid;grid-template-columns:repeat(3,1fr);gap:7px}.codexCard{border:1px solid rgba(48,76,91,.42);border-radius:4px;padding:10px;min-height:82px}.codexCard b{font-size:10px;color:#fff}.codexCard span{display:block;font:9px/1.4 var(--mono);color:var(--muted);margin-top:5px}.metricGrid{display:grid;grid-template-columns:repeat(5,1fr);gap:7px;margin:13px 0}.metric{border:1px solid rgba(48,76,91,.42);border-radius:4px;padding:10px}.metric b{display:block;font:600 15px var(--mono);color:#fff}.metric span{font:8px var(--mono);letter-spacing:.08em;color:var(--muted)}.runGrade{font:600 46px/1 var(--sans);color:var(--amber);text-shadow:0 0 25px rgba(255,208,122,.16)}.unlockFeed{display:grid;gap:5px;margin-bottom:11px}.unlockItem{font:9px var(--mono);color:var(--mint);border-left:2px solid var(--mint);padding-left:8px}
+.researchGrid{display:grid;grid-template-columns:repeat(2,1fr);gap:8px}.researchCard{min-height:108px;display:grid;grid-template-columns:1fr auto;gap:10px;align-items:start}.researchCard .name{color:#fff;font-size:11px;letter-spacing:.06em}.researchCard .lvl{color:var(--mint);font:9px var(--mono)}.researchCard .cost{color:var(--amber);font:9px var(--mono);margin-top:5px}.researchCard button{align-self:center;text-align:center}.achievementGrid{display:grid;grid-template-columns:repeat(2,1fr);gap:7px}.achievement{border:1px solid rgba(48,76,91,.45);border-radius:4px;padding:10px;min-height:76px}.achievement.done{border-color:#365f58;background:rgba(30,73,62,.08)}.achievement .name{font-size:10px;color:#fff;letter-spacing:.05em}.achievement .reward{font:9px var(--mono);color:var(--amber);margin-top:6px}.achievement.locked{opacity:.56}.tabRow{display:flex;gap:6px;margin-bottom:11px}.codexContent{display:grid;grid-template-columns:repeat(3,1fr);gap:7px}.codexCard{border:1px solid rgba(48,76,91,.42);border-radius:4px;padding:10px;min-height:82px}.codexCard b{font-size:10px;color:#fff}.codexCard .codexQuick{display:block;margin-top:7px;font:750 9px/1.35 var(--mono);letter-spacing:.075em;color:#8de9ff}.codexCard span{display:block;font:9px/1.4 var(--mono);color:var(--muted);margin-top:5px}.metricGrid{display:grid;grid-template-columns:repeat(5,1fr);gap:7px;margin:13px 0}.metric{border:1px solid rgba(48,76,91,.42);border-radius:4px;padding:10px}.metric b{display:block;font:600 15px var(--mono);color:#fff}.metric span{font:8px var(--mono);letter-spacing:.08em;color:var(--muted)}.runGrade{font:600 46px/1 var(--sans);color:var(--amber);text-shadow:0 0 25px rgba(255,208,122,.16)}.unlockFeed{display:grid;gap:5px;margin-bottom:11px}.unlockItem{font:9px var(--mono);color:var(--mint);border-left:2px solid var(--mint);padding-left:8px}
 .archiveCard.recovered{border-color:rgba(234,215,167,.52);background:linear-gradient(145deg,rgba(68,55,30,.12),rgba(5,15,20,.42))}.archiveCard.recovered b{color:#ead7a7}.archiveCard i{color:#8f9ca2;font-style:normal}.archiveCard.locked{opacity:.46}
 @keyframes flash{50%{filter:brightness(1.35)}}.flash{animation:flash .16s ease-out 2}.operationsGrid{display:grid;grid-template-columns:repeat(2,1fr);gap:7px}.operationCard{border:1px solid rgba(48,76,91,.42);border-radius:4px;padding:10px;display:grid;grid-template-columns:1fr auto;gap:10px;align-items:center}.operationCard.ready{border-color:#9e7e46;background:rgba(255,208,122,.035)}.operationCard.done{border-color:#365f58;opacity:.72}.operationCard .name{font-size:10px;color:#fff;margin-bottom:4px}.operationCard button{min-width:78px;text-align:center}.opProgress{height:4px;background:#101d25;margin:7px 0;border-radius:2px}.opProgress span{display:block;height:100%;background:linear-gradient(90deg,#58c7e8,#8de9ff);border-radius:2px}.doctrineChoice{border-color:#42566a}.doctrineChoice:hover{border-color:var(--violet)}
 @keyframes rushPulse{50%{box-shadow:0 0 105px rgba(69,215,255,.22),inset 0 0 70px rgba(78,216,255,.035)}}#wrap.rush{animation:rushPulse 1.15s ease-in-out infinite}#wrap.rush:after{background:radial-gradient(ellipse at center,transparent 48%,rgba(15,104,139,.13) 78%,rgba(0,0,0,.38) 100%)}
@@ -472,10 +472,12 @@ button:hover:not(:disabled){border-color:rgba(195,190,140,.78);background:linear
 
 #navigationSignal{min-width:320px;max-width:430px;padding:11px 13px;text-align:left;background:linear-gradient(145deg,rgba(4,20,27,.97),rgba(2,9,15,.94))}#navigationSignal span{font-size:calc(9px * var(--ui-scale));font-weight:750;color:#9aaeb9}#navigationSignal b{margin-top:5px;font-size:calc(12px * var(--ui-scale));color:#bcffed}#navigationSignal small{margin-top:6px;font-size:calc(9.5px * var(--ui-scale));line-height:1.4;color:#effff9}
 #directiveTracker{max-width:410px;padding:10px 12px;text-align:left;background:linear-gradient(90deg,rgba(7,9,9,.97),rgba(18,21,19,.94))}#directiveTracker small{font-size:calc(9px * var(--ui-scale));color:#a1aaa5}#directiveTracker b{margin-top:5px;font-size:calc(11px * var(--ui-scale));color:#f1f5f2}#directiveTracker span{margin-top:5px;font-size:calc(9px * var(--ui-scale));font-weight:700;color:#d4c6ac}
+#wrap:has(#directiveTracker:not(.hidden)) #toastStack{top:190px}
 #prioritySignal small{font-size:calc(9px * var(--ui-scale));color:#a1aaa5}#prioritySignal b{font-size:calc(11px * var(--ui-scale));color:#f4f7f5}
 #rewardRibbon b{font-size:calc(14px * var(--ui-scale))}#rewardRibbon span{margin-top:5px;font-size:calc(10px * var(--ui-scale));line-height:1.35;color:#c8eee5}
 .toast{min-width:250px;padding:11px 13px;font-size:calc(10px * var(--ui-scale));line-height:1.4;color:#d7d4da}.toast b{display:block;font-size:calc(11px * var(--ui-scale));color:#fff;letter-spacing:.09em}.toast span{display:block;margin-top:5px;color:#c5c1c9}
+.toast.intel{border-color:rgba(83,229,255,.74);border-left-color:#53e5ff;background:linear-gradient(135deg,rgba(6,19,27,.99),rgba(13,8,20,.99));box-shadow:0 0 0 1px rgba(83,229,255,.08),0 14px 42px rgba(0,0,0,.68)}.toast.intel b{color:#e9fdff;text-shadow:0 0 12px rgba(83,229,255,.30)}.toast.intel span{color:#d7f8ff;font-weight:700}
 #pauseScreen .pauseSnapshot span{font-size:calc(9.5px * var(--ui-scale));font-weight:750;color:#a1a7af}#pauseScreen .pauseSnapshot b{font-size:calc(13px * var(--ui-scale))}
 #levelScreen .choiceBenefit small{font-size:calc(9px * var(--ui-scale));color:var(--choice-accent)}#levelScreen .choiceBenefit b{font-size:calc(12px * var(--ui-scale))}#levelScreen .choice .connection,#levelScreen .choiceAction{font-size:calc(9px * var(--ui-scale))}.choiceGuide small{font-size:calc(8.5px * var(--ui-scale));color:#b4afb8}
 .intelMetric span,.intelItem small,.intelBadge,.intelHelp{font-size:calc(9.5px * var(--ui-scale));color:#aeb5b2}.intelItem p{font-size:calc(11px * var(--ui-scale));color:#c2cac6}
-@media(max-width:780px){#navigationSignal{min-width:240px;max-width:340px}#navigationSignal b{font-size:calc(10px * var(--ui-scale))}#navigationSignal small{font-size:calc(8.5px * var(--ui-scale))}#directiveTracker b{font-size:calc(10px * var(--ui-scale))}}
+@media(max-width:780px){#navigationSignal{min-width:240px;max-width:340px}#navigationSignal b{font-size:calc(10px * var(--ui-scale))}#navigationSignal small{font-size:calc(8.5px * var(--ui-scale))}#directiveTracker b{font-size:calc(10px * var(--ui-scale))}#wrap:has(#directiveTracker:not(.hidden)) #toastStack{top:160px}}

diff --git a/tests/smoke.js b/tests/smoke.js
@@ -46,6 +46,7 @@ vm.runInContext(`
   state.p.iFrames=9999;
   const openingPopulationCap=enemyPopulationCap(false,false),savedPopulation=state.enemies;if(openingPopulationCap<98||openingPopulationCap>110||openingPopulationCap>=MAX_ENEMIES)throw new Error('opening encounter population budget is invalid');state.enemies=Array.from({length:openingPopulationCap},()=>({dead:false,boss:false}));if(spawnEnemyGroup(6).length!==0)throw new Error('encounter director exceeded its active population budget');state.enemies=[];state.time=30;state.spawnT=0;const densityRandom=Math.random;Math.random=()=>0;spawnWave(.1);Math.random=densityRandom;if(state.enemies.length!==2)throw new Error('opening encounter cadence did not admit an early hostile pair');state.enemies=savedPopulation;state.time=0;state.spawnT=0;
   updateDirectiveHud();if(state.directiveId!=='recovery'||document.getElementById('directiveTracker').classList.contains('hidden')||!document.getElementById('directiveTrackerText').textContent.includes('RECOVERY ORDER')) throw new Error('field directive did not initialize');
+  if(Object.values(ENEMY_META).some(enemy=>!enemy.quick))throw new Error('hostile tactical descriptions are incomplete');save.briefedEnemies=[];state.enemyIntelQueue=[];state.enemyIntelShown=0;state.nextEnemyIntel=0;const intelTarget=spawnEnemy('warden',false,{x:state.p.x+280,y:state.p.y});state.time=1;if(!state.enemyIntelQueue.includes('warden')||!updateEnemyIntel())throw new Error('first-contact hostile briefing did not trigger');const intelToast=toastStack.children.at(-1);if(!intelToast||!intelToast.children[0].textContent.includes('PALE WARDEN')||!intelToast.children[1].textContent.includes('DESTROY FIRST')||!save.briefedEnemies.includes('warden'))throw new Error('hostile briefing did not explain the counterplay');intelTarget.dead=true;state.time=0;codexTab='enemies';renderCodex();if(!document.getElementById('codexContent').children.some(card=>card.innerHTML.includes('PROTECTS NEARBY HOSTILES')))throw new Error('enemy Codex does not preserve tactical counterplay');
   const nearTarget=spawnEnemy('scout',false,{x:state.p.x+40,y:state.p.y}),weakTarget=spawnEnemy('scout',false,{x:state.p.x+170,y:state.p.y}),eliteTarget=spawnEnemy('tank',true,{x:state.p.x+250,y:state.p.y}),targetSet=enemy=>enemy===nearTarget||enemy===weakTarget||enemy===eliteTarget;weakTarget.hp=weakTarget.maxHp*.05;
   const weaponFxBefore=state.weaponFx.length;fireProjectile(state.p.x,state.p.y,nearTarget,420,10,{weaponId:'rail',color:'#d8c68b'});if(state.weaponFx.length!==weaponFxBefore+1||state.p.weaponKick<=0||state.p.weaponAngle!==0||state.bullets.at(-1).maxLife!==state.bullets.at(-1).life) throw new Error('weapon firing presentation event failed');
   const impactFxBefore=state.impactFx.length;emitImpactFx(nearTarget.x,nearTarget.y,420,0,'rail','#d8c68b',true,18);if(state.impactFx.length!==impactFxBefore+1||!state.impactFx.at(-1).finalHit||state.impactFx.at(-1).maxLife<=0) throw new Error('directional final-impact event failed');
